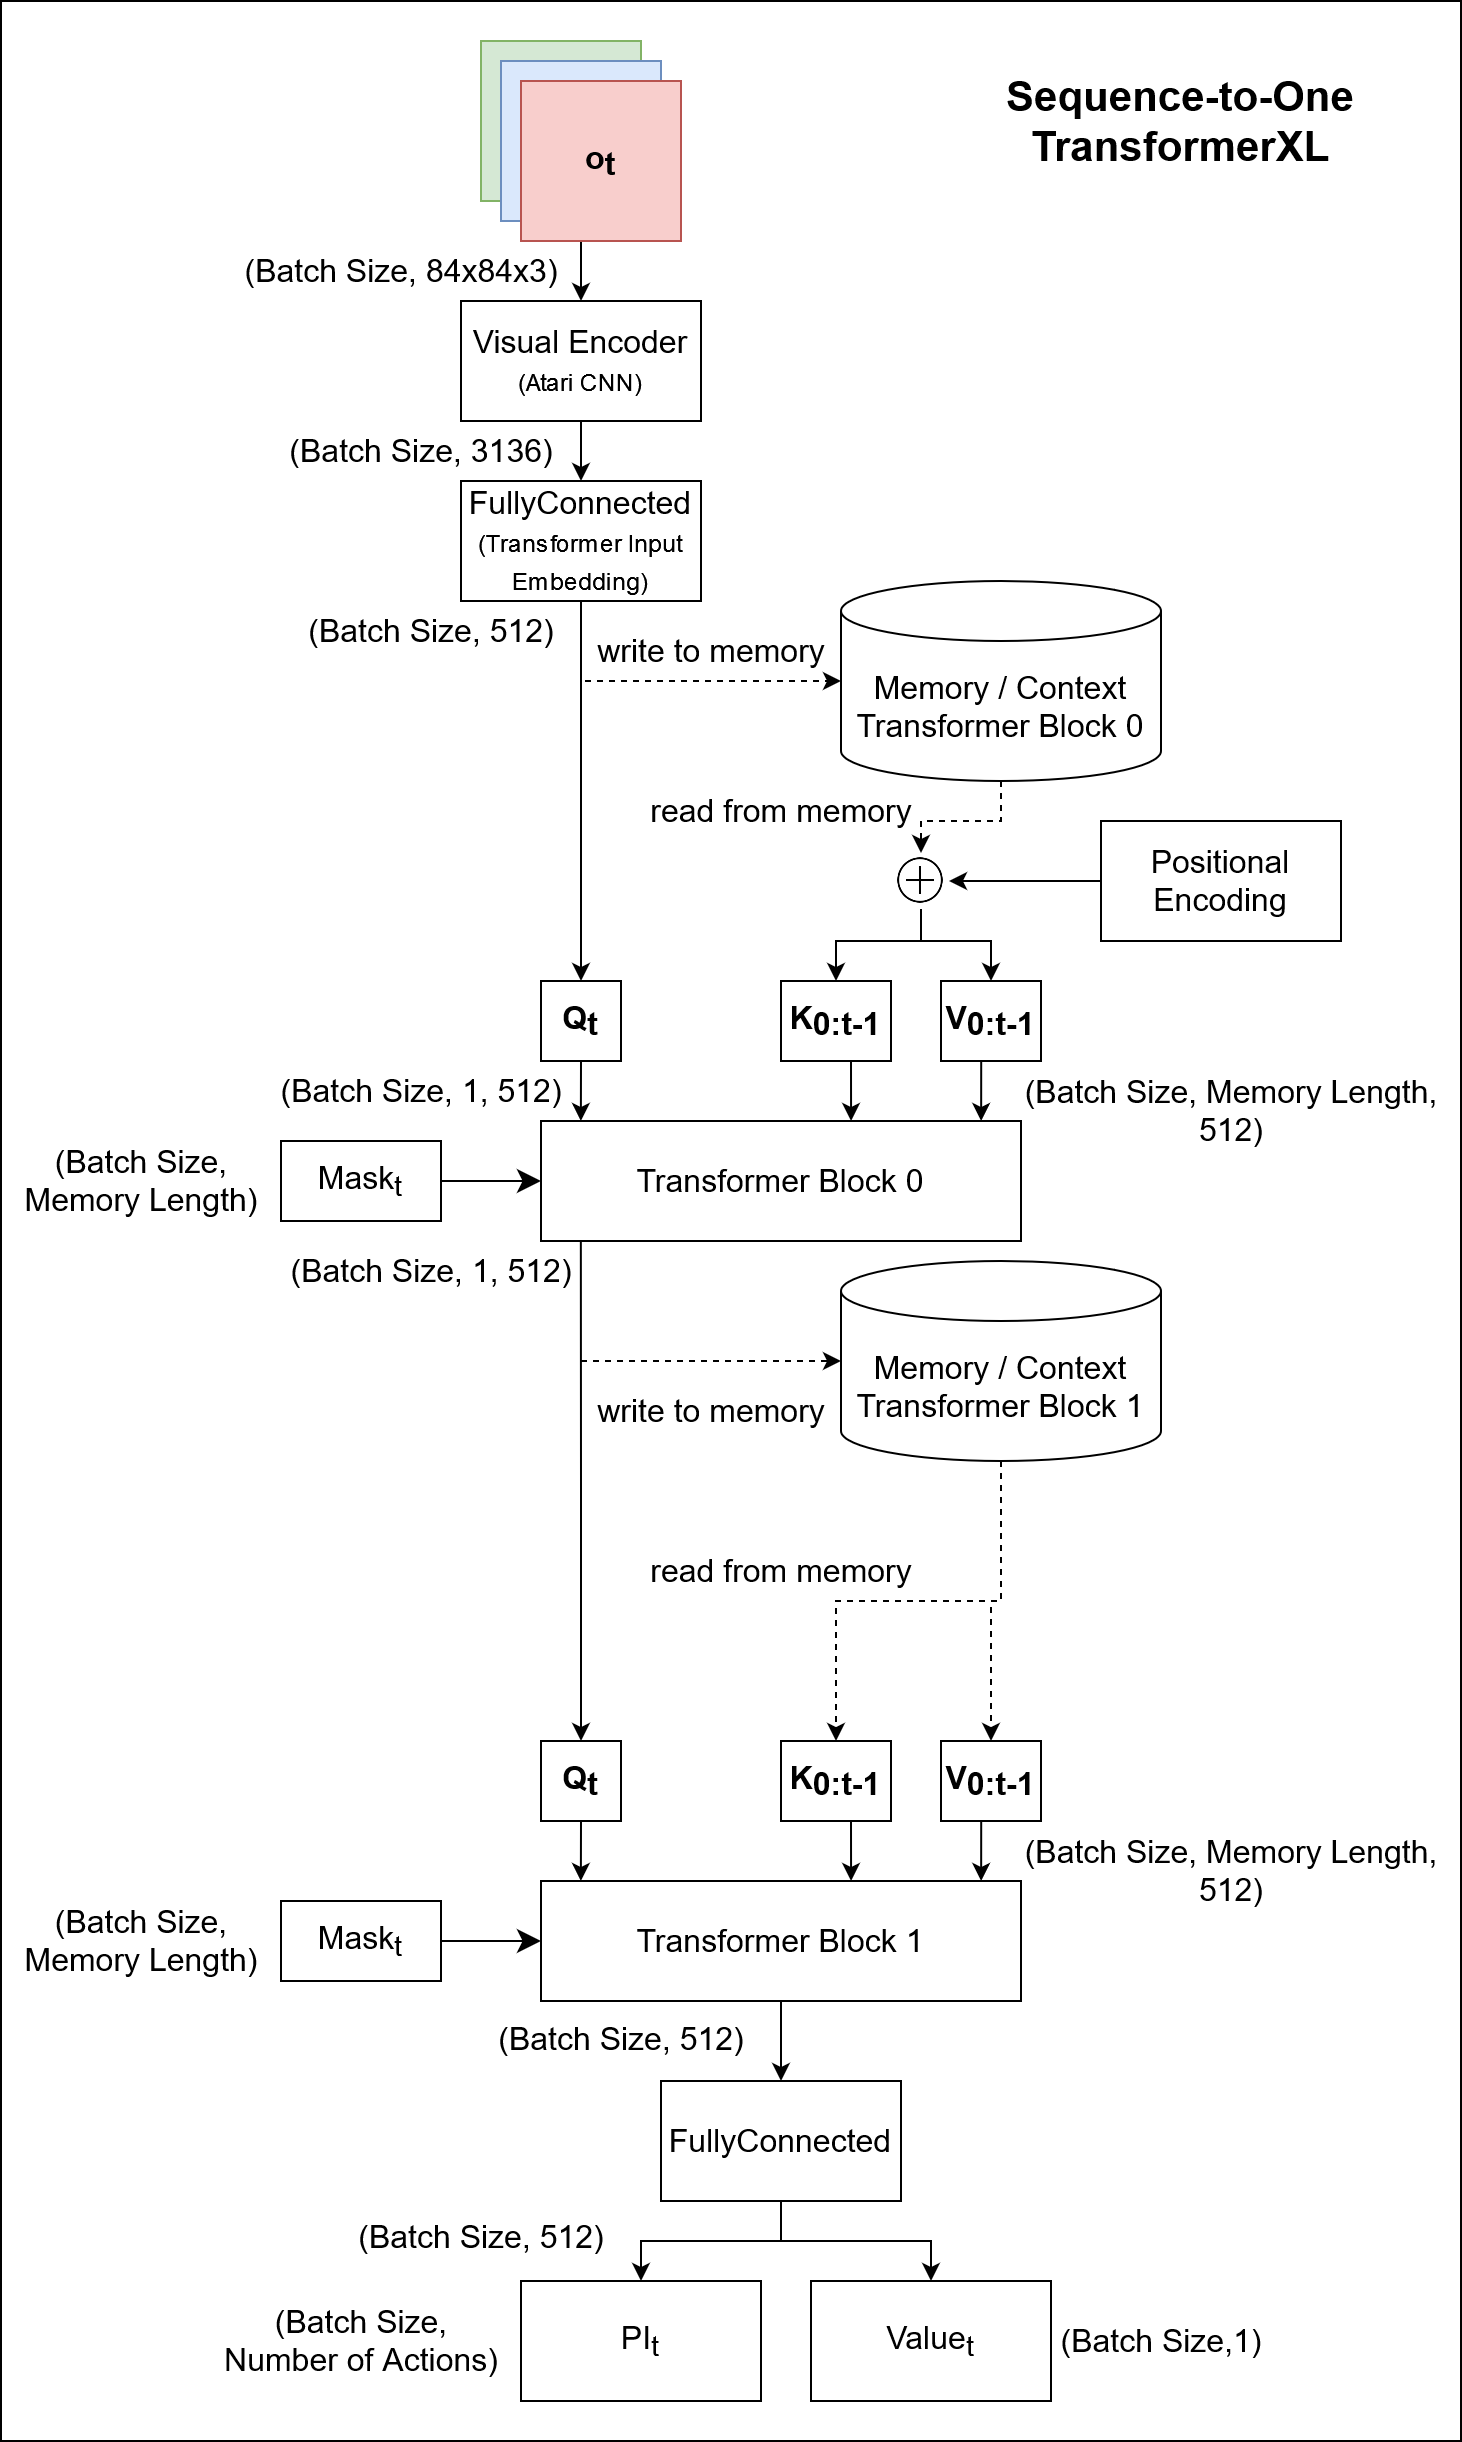
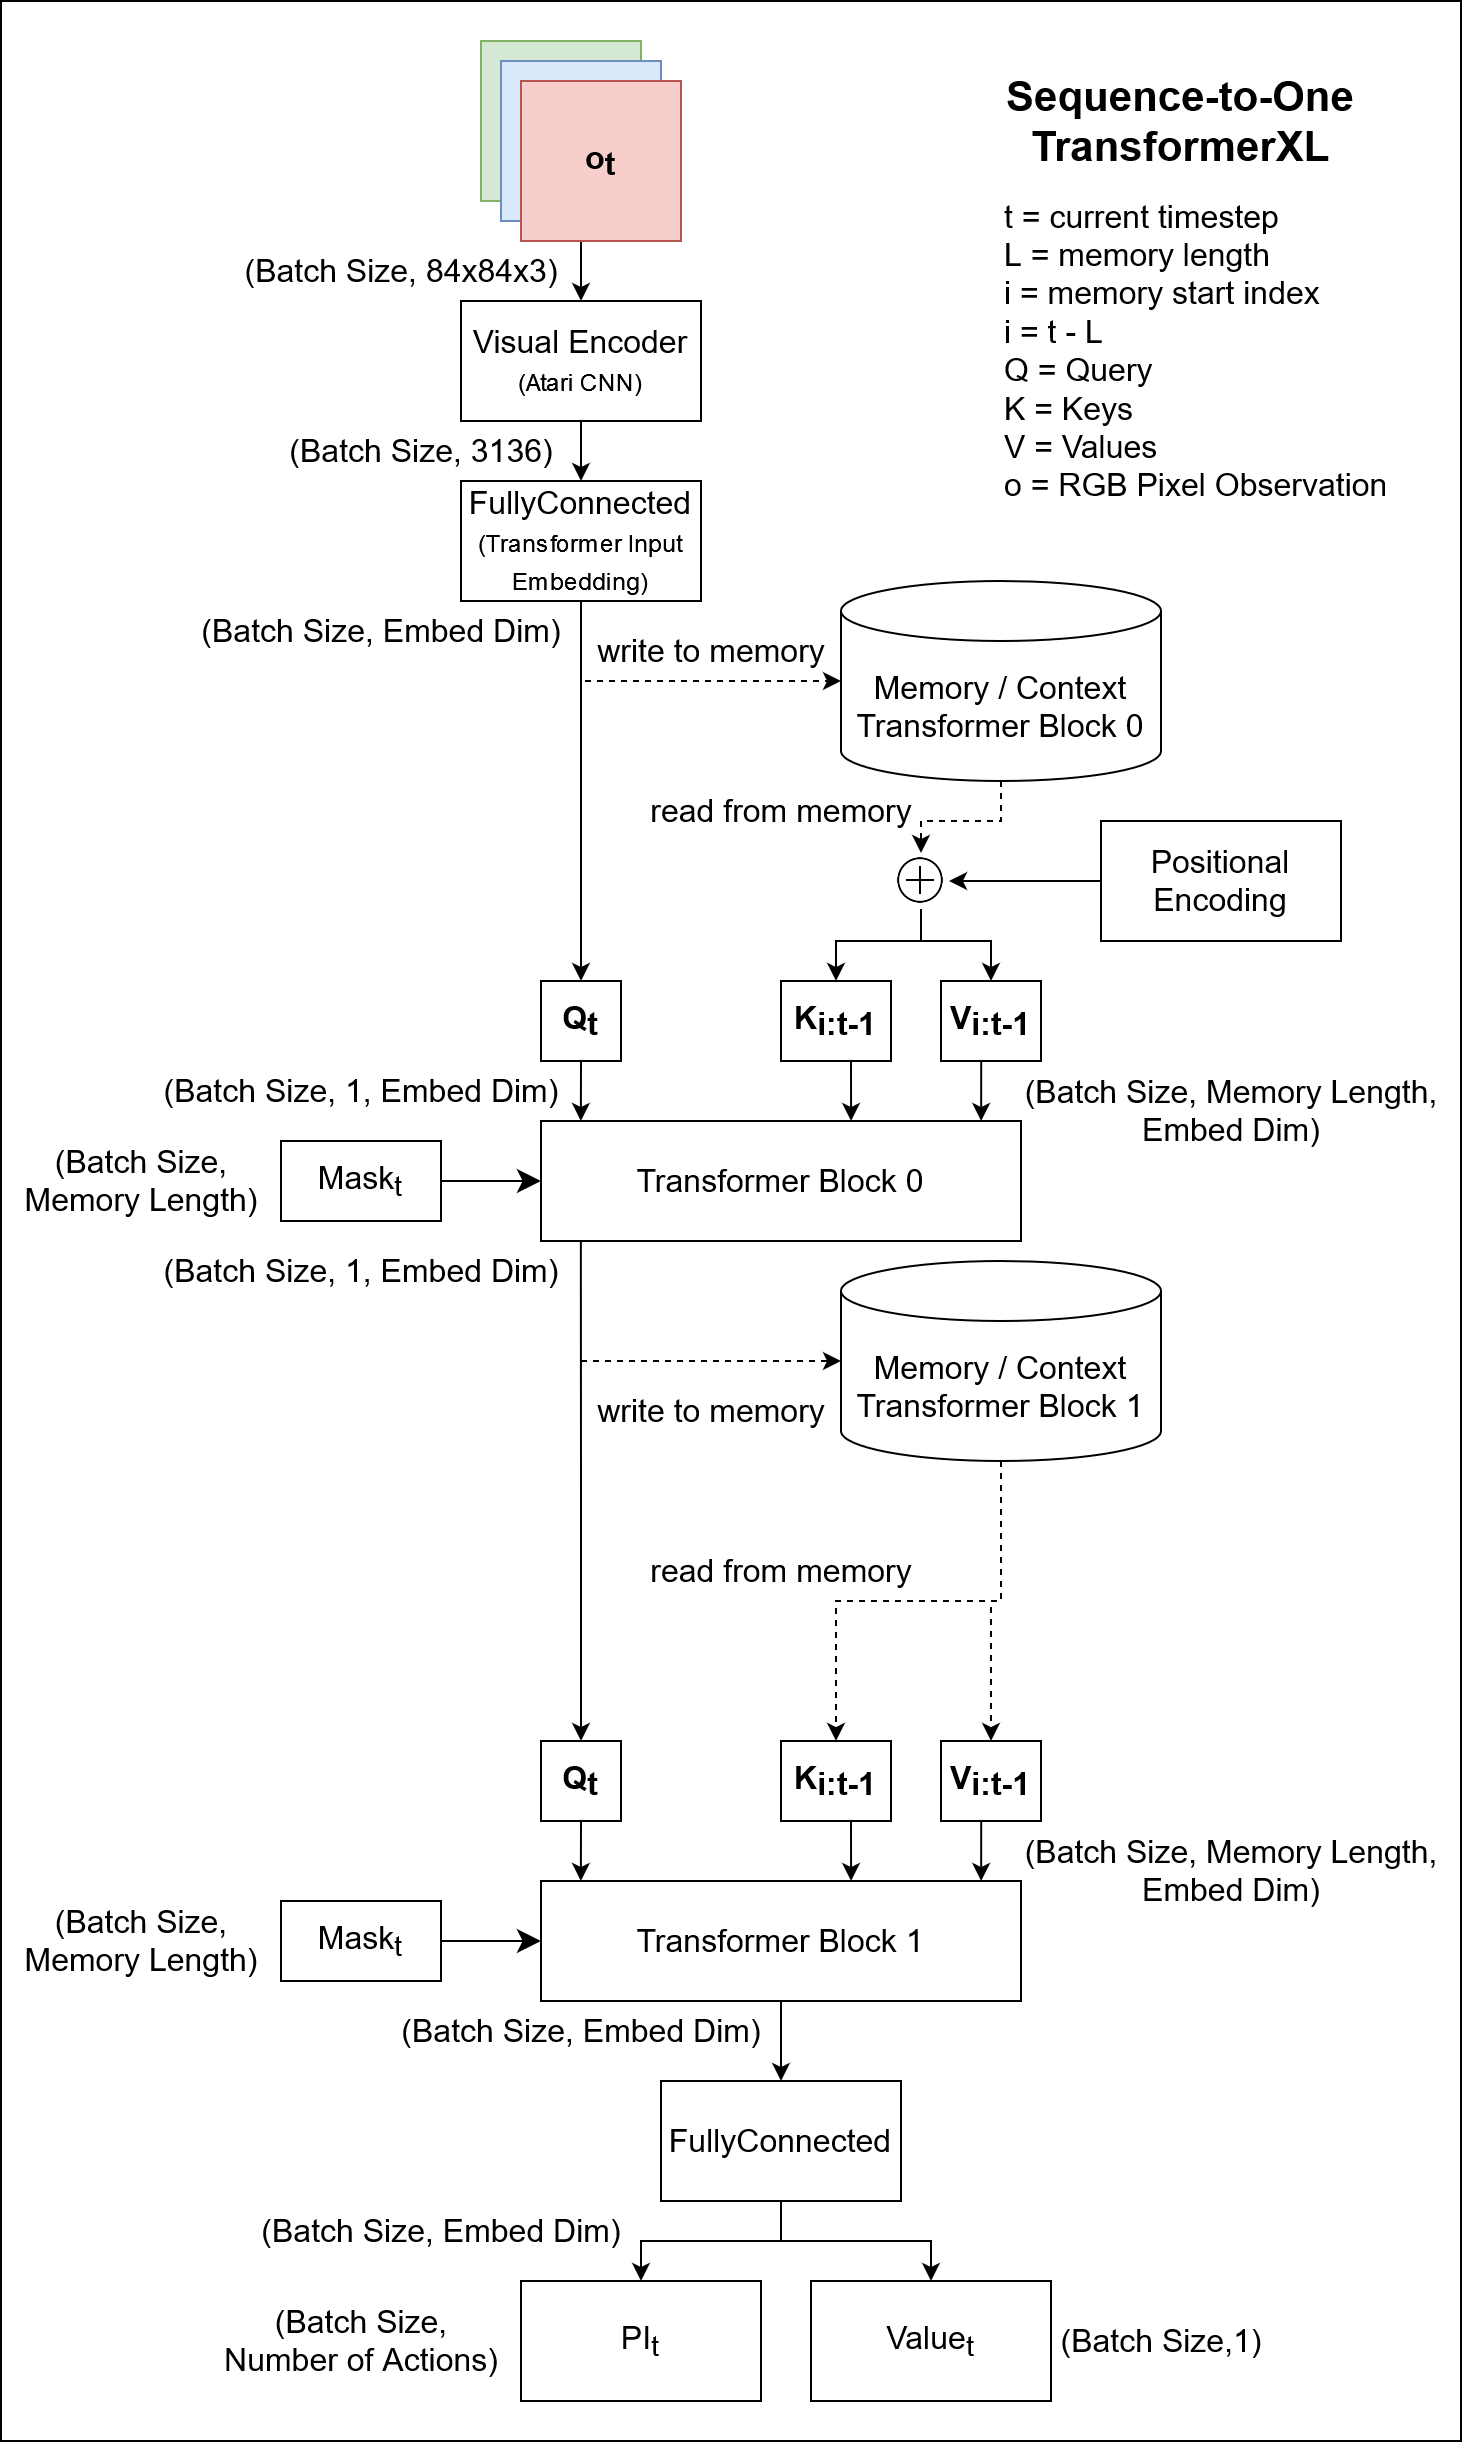
Added Mortar Mayhem Grid results, updadted TrXL concept figure to reflect the concept of the sliding memory window

diff --git a/README.md b/README.md
@@ -234,3 +234,7 @@ Every experiment is repeated on 5 random seeds. Each model checkpoint is evaluat
 ![mpg_off_results](./docs/assets/mpg_off.png)
 
 TrXL and GTrXL have identical performance. See [Issue #7](https://github.com/MarcoMeter/episodic-transformer-memory-ppo/issues/7).
+
+## Mortar Mayhem Grid (10 commands)
+
+![mmg_10_results](./docs/assets/mmg_10.png)
